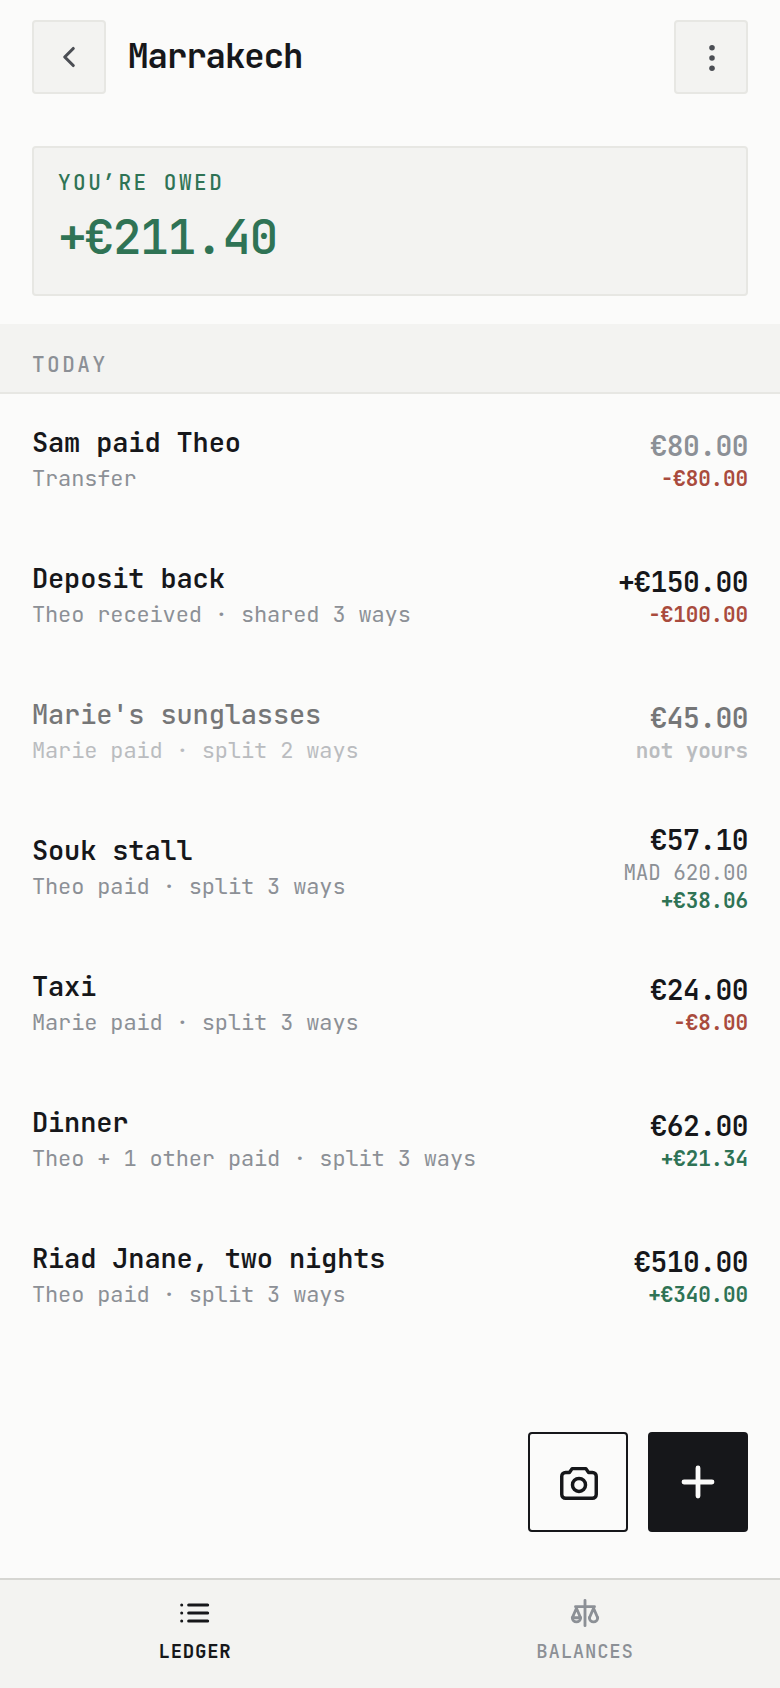
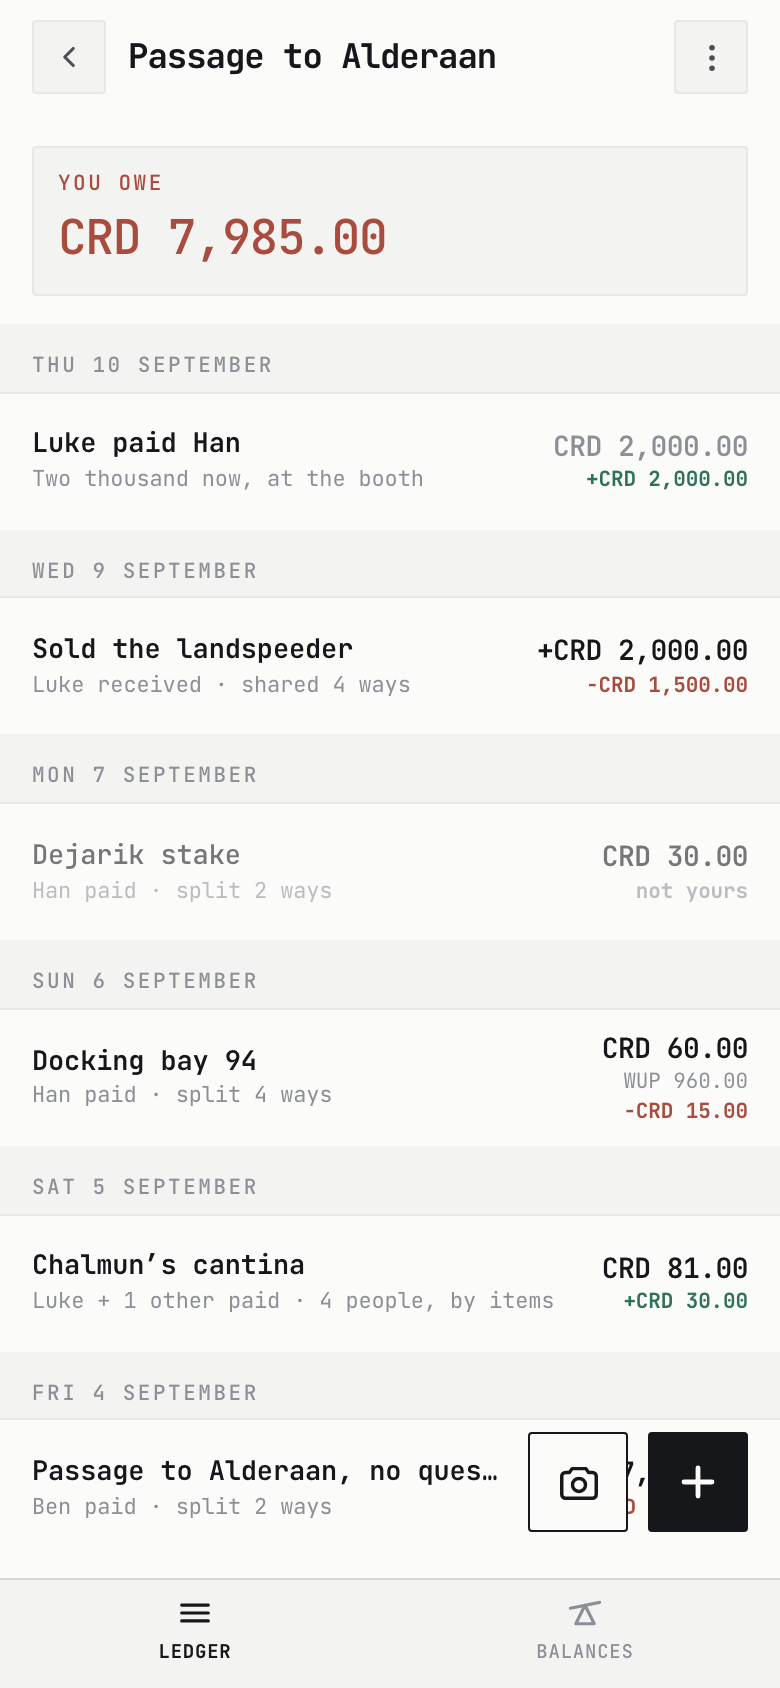
docs: take the readme's six shots in the demo group
The script seeded a Marrakech trip of its own, which had to be kept in
step with the app by hand and showed a stranger something the front page
does not open. The demo was already written to give every screen
something to say, and its ids are constants, so it can be walked instead
— which also drops the Worker, since a keyless group has nothing to push.

The cantina tab brings one thing the invented trip could not: a bill in
its own tongue, so the grid shot carries the translation icon.

DemoCard is dropped before the ledger frame. "Demo group: not synced" is
true of the demo and reads, in a README, as a claim about the app.

diff --git a/docs/testing.md b/docs/testing.md
@@ -211,25 +211,28 @@ Chromium is at `/opt/pw-browsers/chromium` (override with `CHROMIUM_PATH`);
 `scripts/readme-shots.mjs` walks the same UI with the opposite brief. `shots`
 leans on states worth catching — a split that doesn't add up, a payer who
 overpaid, a server that can't be reached; a stranger deciding whether to open
-the app should see none of those, so this one seeds a trip that adds up in
-prices a person might actually pay, and photographs two rows of three: the app
-a Tricount user already expects (ledger, balances, adding an expense) over the
-part they came for (a scan mid-read, the who-had-what grid, and the saved
-expense read back line by line).
+the app should see none of those, so this one photographs two rows of three:
+the app a Tricount user already expects (ledger, balances, adding an expense)
+over the part they came for (a scan mid-read, the who-had-what grid, and the
+saved expense read back line by line).
+
+**The group in them is the demo** (`core/src/demo.ts`), the one `/demo` lays
+down for a visitor — written to give every screen something to say, which is
+what six screenshots need, and the README then shows what the front page's
+button actually opens. Its entity ids are constants, so the cantina tab is
+addressable (`demo-cantina`) rather than something to hunt for; the grid is
+still reached through the entry form, because it reads a draft and a draft
+lives in memory.
 
 The scan's bar is a CSS animation on a wall clock, so `waitForTimeout` would
 photograph a different fraction on every machine: the request is routed into a
 hole and the animation is paused at a fixed progress instead (`freezeScanBar`).
-The two after it need a scan that *answers*, which is `stubScan` and the same
-canned bill `pnpm drive` uses.
 
-Two differences that are the whole reason it is a second script:
+Two things worth knowing:
 
-- **It serves the real Worker** (`serveWorker`), not the export. Against a
-  static server every push 404s and the ledger wears "Can't reach the server",
-  which is the first thing a reader would see. That costs ~10s of `wrangler
-  dev` boot, and `settled()` waits for the banner to be gone rather than for a
-  timeout.
+- **`DemoCard` is removed before the ledger shot.** It says "Demo group: not
+  synced" and never dismisses, which is right in the demo and the opposite of
+  the pitch when it sits in the README. The fact is the demo's, not the app's.
 - **Its output is committed.** `shots/` is gitignored, so a README cannot point
   at it; `docs/media/` is not. Re-run and commit what moves when one of the
   six screens changes.
